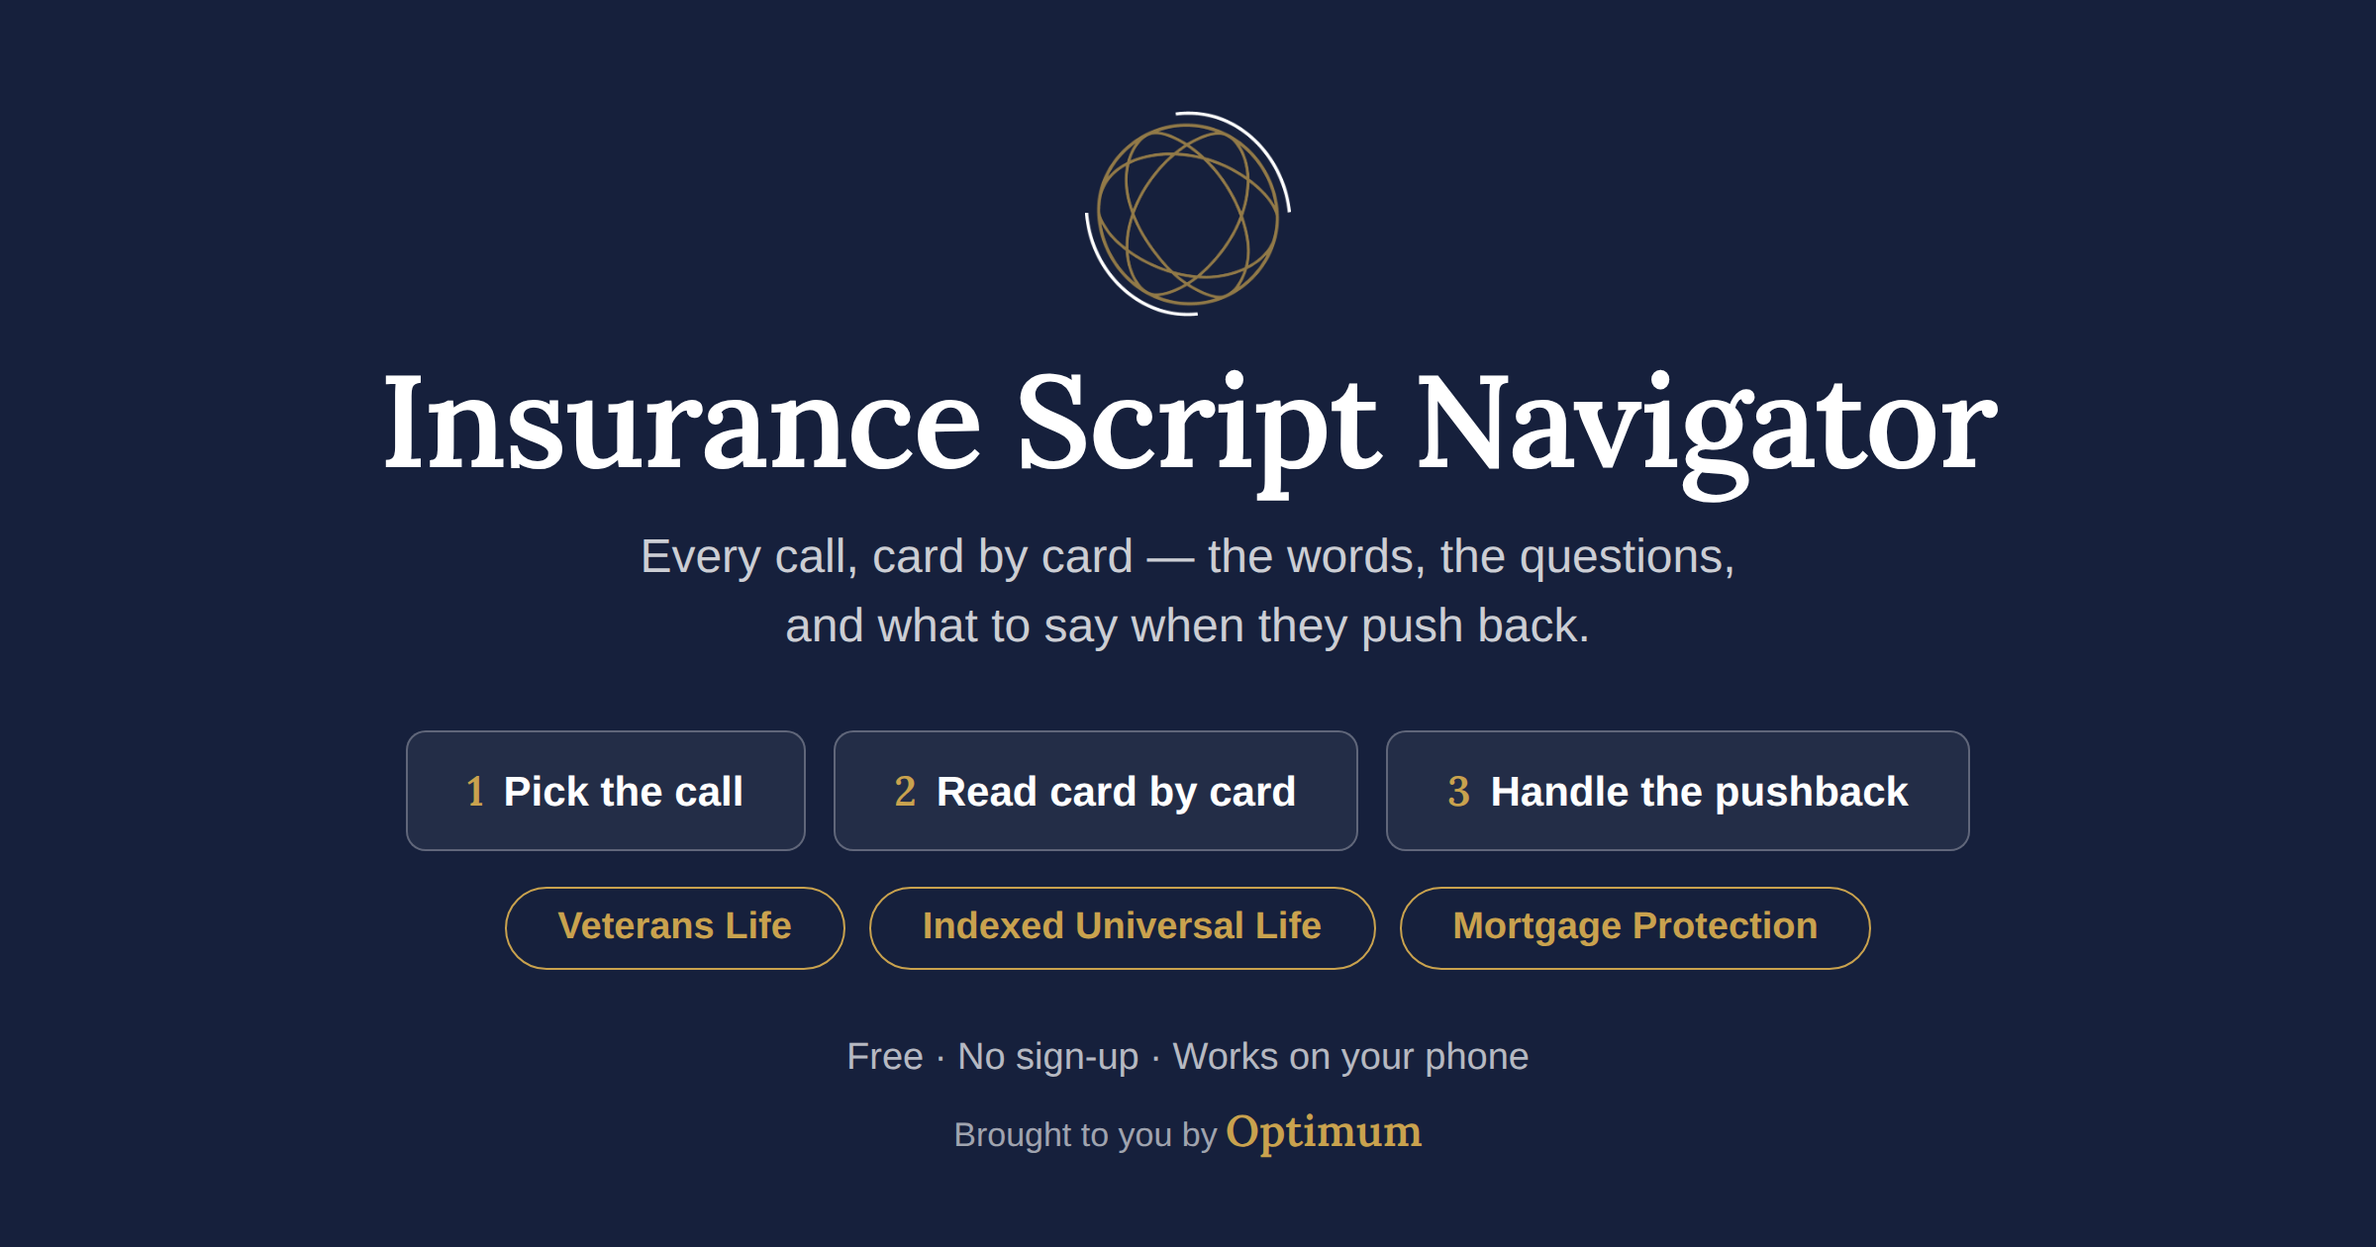
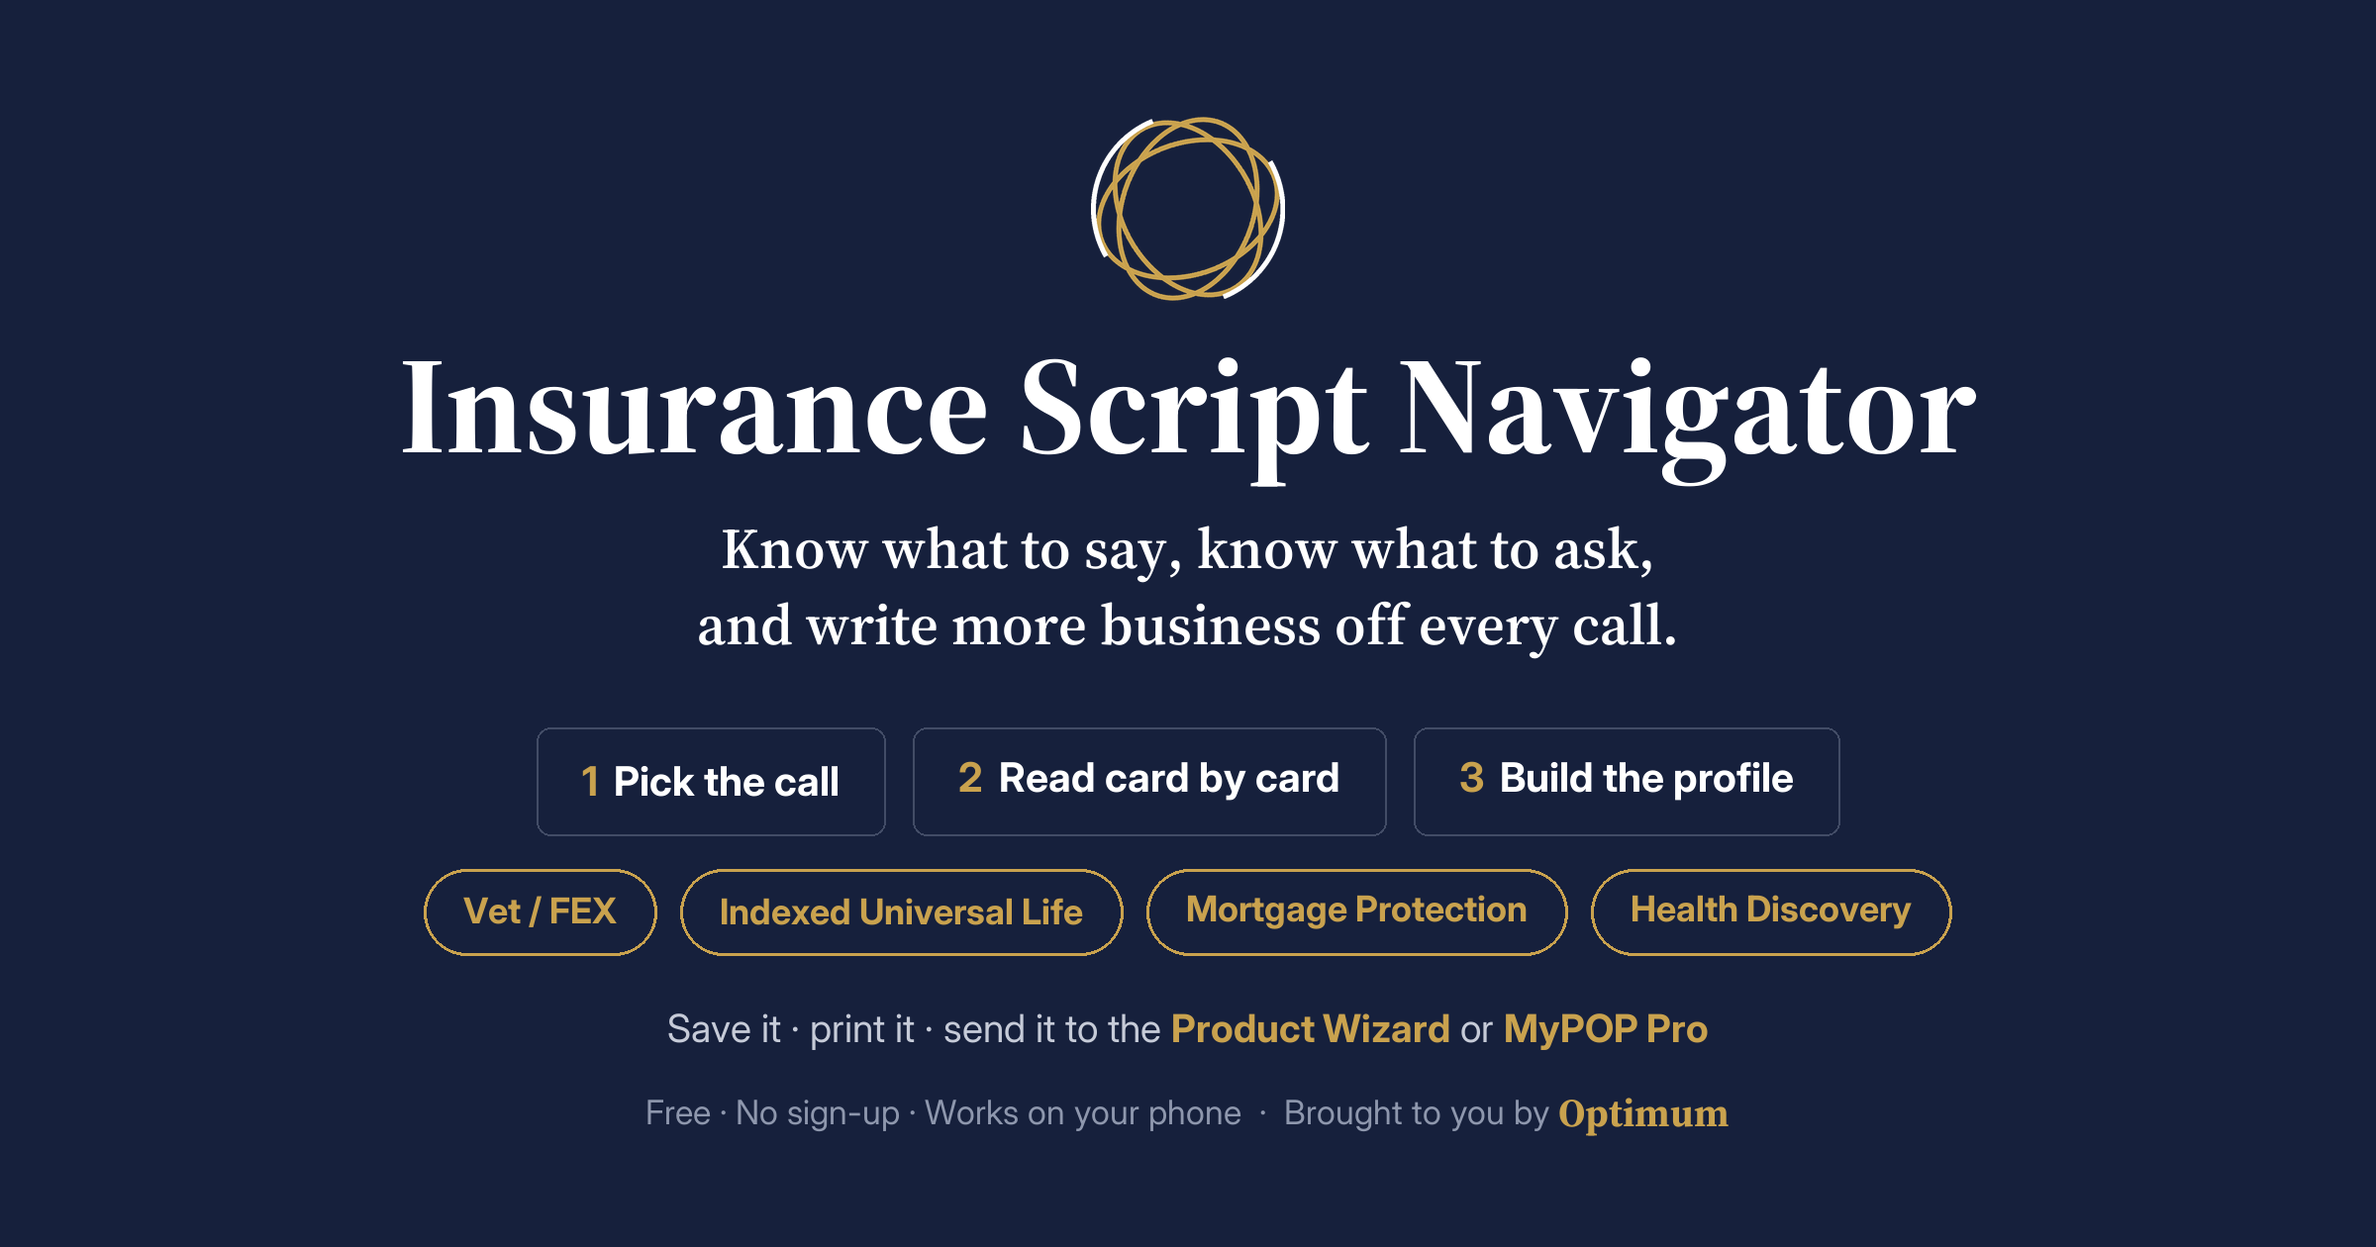
New share card, a landing page that says what the tool does, and a profile that saves itself
SHARE CARD. The old one listed three scripts, called the first one "Veterans Life" when
it runs FEX too, and did not mention health at all. Redrawn at 2400x1260 with four pills -
Vet / FEX, Indexed Universal Life, Mortgage Protection, Health Discovery - and step three
is now "Build the profile" rather than "Handle the pushback", which was never true of the
health discovery call. New line: "Know what to say, know what to ask, and write more
business off every call", and a gold line naming where the profile goes. All four meta
descriptions still claimed veteran/IUL/mortgage only; og:image:alt still said "handle the
pushback". Cache-buster bumped so the scrapers refetch.

LANDING PAGE. The promise now sits above "Choose your script" instead of the page opening
on a menu. Each script card ends with where it sends you - "Builds a client profile ->
Product Wizard", "Builds a private health profile -> MyPOP Pro" - on its own line under a
rule, so the descriptions stay three lines and the destination is scannable across all four.
The line under the cards described the interface; it now leads with the thing nobody knew
was there: every script builds a client profile while you talk.

AUTO-SAVE ON HANDOFF. Pushing to MyPOP Pro or sending to the Product Wizard writes a
snapshot of the profile first. A handoff is when the profile is worth most and when it is
most likely to be lost - another tab, a closed window, or Start over for the next call.
[…]

diff --git a/index.html b/index.html
@@ -4,7 +4,7 @@
 <meta charset="utf-8">
 <meta name="viewport" content="width=device-width, initial-scale=1">
 <title>Insurance Script Navigator — Optimum</title>
-<meta name="description" content="Card-by-card call scripts for insurance agents. Veteran life, indexed universal life, and mortgage protection — with objection handling, reference panels, and printable versions. Free from Optimum.">
+<meta name="description" content="Know what to say, know what to ask, and write more business off every call. Card-by-card scripts for vet/FEX, IUL, mortgage protection and health discovery — each one builds a client profile you can save, print, or send to the Product Wizard or MyPOP Pro. Free from Optimum.">
 <meta name="theme-color" content="#16203C">
 <meta name="author" content="Optimum">
 <link rel="canonical" href="https://script.ffloptimum.com/">
@@ -15,15 +15,15 @@
 <meta property="og:site_name" content="Optimum">
 <meta property="og:url" content="https://script.ffloptimum.com/">
 <meta property="og:title" content="Insurance Script Navigator">
-<meta property="og:description" content="Card-by-card call scripts for insurance agents. Veteran life, IUL, and mortgage protection — free from Optimum.">
-<meta property="og:image" content="https://script.ffloptimum.com/og.png?v=2">
+<meta property="og:description" content="Know what to say, know what to ask, and write more business off every call. Vet/FEX, IUL, mortgage protection and health discovery — free from Optimum.">
+<meta property="og:image" content="https://script.ffloptimum.com/og.png?v=3">
 <meta property="og:image:width" content="2400">
 <meta property="og:image:height" content="1260">
-<meta property="og:image:alt" content="Insurance Script Navigator — pick the call, read card by card, handle the pushback. Veterans Life, Indexed Universal Life, Mortgage Protection. Free from Optimum.">
+<meta property="og:image:alt" content="Insurance Script Navigator — pick the call, read card by card, build the profile. Vet/FEX, Indexed Universal Life, Mortgage Protection, Health Discovery. Save it, print it, send it to the Product Wizard or MyPOP Pro. Free from Optimum.">
 <meta name="twitter:card" content="summary_large_image">
-<meta name="twitter:image" content="https://script.ffloptimum.com/og.png?v=2">
+<meta name="twitter:image" content="https://script.ffloptimum.com/og.png?v=3">
 <meta name="twitter:title" content="Insurance Script Navigator">
-<meta name="twitter:description" content="Card-by-card call scripts for insurance agents. Free from Optimum.">
+<meta name="twitter:description" content="Know what to say, know what to ask, and write more business off every call. Free from Optimum.">
 <link href="https://fonts.googleapis.com/css2?family=Source+Serif+4:ital,opsz,wght@0,8..60,400;0,8..60,600;0,8..60,700;1,8..60,400&family=Inter:wght@400;500;600;700&display=swap" rel="stylesheet">
 <style>
 :root{
@@ -82,6 +82,12 @@ body.embed .scrim{position:absolute}
 @media(min-width:701px){.gshort{display:none}}
 .lbody{flex:1;padding:34px 20px 40px}
 .lwrap{max-width:820px;margin:0 auto}
+.ltail{display:block;margin-top:10px;padding-top:9px;border-top:1px solid var(--goldline);
+  font-family:var(--sans);font-size:11.5px;color:var(--muted);letter-spacing:.01em}
+.ltail b{color:var(--golddk);font-weight:700}
+.lpromise{font-family:var(--serif);font-weight:600;font-size:26px;line-height:1.35;
+  color:var(--navy);margin:0 0 14px;letter-spacing:-.005em}
+@media(max-width:640px){.lpromise{font-size:20px}.wideonly{display:none}}
 .ltitle{font-family:var(--serif);font-size:30px;font-weight:700;letter-spacing:-.02em;margin-bottom:6px}
 .lsub{font-family:var(--serif);font-style:italic;font-size:15.5px;color:var(--muted);margin-bottom:26px}
 .lgrid{display:grid;grid-template-columns:repeat(auto-fit,minmax(330px,1fr));gap:13px}
@@ -710,10 +716,11 @@ footer{background:var(--navy);padding:10px 20px;display:flex;gap:8px;align-items
   <div class="recstrip">Free for every agent, period.<button type="button" class="recopen" aria-haspopup="dialog">Not a Family First Life agent?</button></div>
   <div class="lbody">
     <div class="lwrap">
+      <div class="lpromise">Know what to say, know what to ask,<br class="wideonly"> and write more business off every call.</div>
       <div class="ltitle">Choose your script</div>
       <div class="lsub">Pick the call you're about to run.</div>
       <div class="lgrid" id="lgrid"></div>
-      <div class="lfoot">Each script opens as a card-by-card navigator with its own reference panels. You can jump back here any time from the top of the screen.</div>
+      <div class="lfoot"><b>Every script builds a client profile while you talk</b> &mdash; save it, reload it before the next call, print it for the file, or send it straight to the Product Wizard or MyPOP Pro. Each script opens as a card-by-card navigator with its own reference panels, and you can jump back here any time from the top of the screen.</div>
       <div class="promo">
         <div class="peyebrow">Free for agents</div>
         <h3>Everything you need to look like a professional</h3>
@@ -954,13 +961,13 @@ var OPTIMUM_URL = "https://www.ffloptimum.com/";
 
 var SCRIPTS=[
  {k:"veteran", ready:true,  title:"Veterans / FEX Life Script",
-  desc:"Outbound to veteran and final expense life leads. Fresh and aged openers, full discovery, three-tier quote, application and wrap."},
+  desc:"Outbound to veteran and final expense leads. Fresh and aged openers, objection handling through banking and closing, three-tier quote and application.", tail:"Builds a client profile &rarr; <b>Product Wizard</b>"},
  {k:"iul",     ready:true,  title:"Indexed Universal Life",
-  desc:"Warm or scheduled IUL calls. Goal discovery, eligibility, then a fork into IUL, a Zoom for larger cases, or a whole life pivot."},
+  desc:"Warm or scheduled IUL calls. Goal discovery, eligibility, then a fork into IUL, a Zoom for larger cases, or a whole life pivot.", tail:"Builds a client profile &rarr; <b>Product Wizard</b>"},
  {k:"mortgage",ready:true,  title:"Mortgage Protection",
-  desc:"Homeowner leads. Reframes payoff into protecting equity and buying time, then forks into IUL, whole life, or term."},
+  desc:"Homeowner leads. Reframes payoff into protecting equity and buying time, then forks into IUL, whole life or term.", tail:"Builds a client profile &rarr; <b>Product Wizard</b>"},
  {k:"health",   ready:true,  title:"Health — Discovery Call",
-  desc:"Private health discovery. Appointment or warm call, the qualifying open, household and health, the subsidy cliff, then book the presentation."}
+  desc:"Private health discovery. Appointment or warm call, household and health for both spouses, the subsidy cliff, then book the presentation.", tail:"Builds a private health profile &rarr; <b>MyPOP&nbsp;Pro</b>"}
 ];
 
 var LIB={
@@ -5781,12 +5788,14 @@ function popStateFile(){
       pincome:n(h.incomeThis), sincome:n(h.incomeSpouse), income:n(h.incomeHousehold),
       retage:h.retireAge||"", savings:n(h.liquid), invest:n(h.invest),
       invprot:h.invprot===true, invnote:h.invnote||"",
-      budget:n(h.budgetComfort), whyShop:h.whyShop||"",
+      budget:n(h.budgetMax)||n(h.budgetComfort), whyShop:h.whyShop||"",
       effDate:h.effDate||"", surg2yrP:h.surgery===true,
       conds:(c.conds||[]).map(function(x){ return {name:x.name, yr:x.yr||"", mo:x.mo||""}; }),
       medSkip:(c.medSkip||[]).slice(),
       medList:(c.meds||[]).map(function(m){
-        return {name:m, cost:0, aca:0, disc:0, forP:true, forS:false}; }),
+        return {name:m, cost:0, aca:0, disc:0, forP:true, forS:false}; })
+        .concat((c.spMeds||[]).map(function(m){
+        return {name:m, cost:0, aca:0, disc:0, forP:false, forS:true}; })),
       docs1:((h.doctors||[])[0]||{}).name||"",
       docs2:((h.doctors||[])[1]||{}).name||"",
       docs3:((h.doctors||[])[2]||{}).name||"",
@@ -5821,6 +5830,53 @@ function condLines(){
   if(["Married","Partnered"].indexOf(String(P.married||""))>-1) out.spouse=who(true);
   return out;
 }
+/* POP Pro -> this profile. The mirror of popClient(). Only the client travels back;
+   products, pricing and the quote stay in POP Pro where they belong. */
+function fromPopPro(o){
+  var c=o.client||{}, I=o.intake||{}, out={};
+  var put=function(k,v){ if(v!==undefined && v!==null && v!=="" && v!==0) out[k]=String(v); };
+  var split=function(full){
+    var t=String(full||"").trim(); if(!t) return ["",""];
+    var i=t.lastIndexOf(" "); return i<0?[t,""]:[t.slice(0,i),t.slice(i+1)];
+  };
+  var n=split(c.pname); put("first",n[0]); put("last",n[1]);
+  var sn=split(c.sname); put("sp_name",sn[0]); put("sp_last",sn[1]);
+  put("dob", c.dob||c.date); put("age", c.age||c.page);
+  put("sp_dob", c.sdob); put("sp_age", c.sage);
+  put("state", c.state); put("zip", c.zip); put("address", c.address);
+  put("phone", I.phone); put("email", I.email);
+  var ft=function(v){ var x=parseInt(v,10); return (x>=48&&x<=84) ? Math.floor(x/12)+"'"+(x%12)+'"' : ""; };
+  put("height", ft(I.pheight)); put("weight", I.pweight);
+  put("sp_height", ft(I.sheight)); put("sp_weight", I.sweight);
+  put("sex", I.psex==="M"?"Male":I.psex==="F"?"Female":"");
+  put("sp_sex", I.ssex==="M"?"Male":I.ssex==="F"?"Female":"");
+  put("tobacco", I.tobaccoP?"Yes":""); put("sp_tobacco", I.tobaccoS?"Yes":"");
+  var w=I.who||{};
+  if(w.spouse || c.sname) out.married = out.married || "Married";
+  put("income_this", I.pincome); put("sp_income", I.sincome); put("hh_income", I.income);
+  put("i_retire", I.retage); put("i_liquid", I.savings); put("asset_amt", I.invest);
+  put("asset_prot", I.invsra?"Yes":""); put("asset_notes", I.invnote);
+  put("budget_max", I.budget);
+  put("cur_carrier", I.carrier); put("cur_plan", I.plan);
+  put("fh_cancer", I.famcancerP?"Yes":""); put("sp_fh_cancer", I.famcancerS?"Yes":"");
+  put("fh_heart", I.famheartP?"Yes":"");  put("sp_fh_heart", I.famheartS?"Yes":"");
+  put("mh_needs", I.mentalP?"Yes":"");    put("sp_mh_needs", I.mentalS?"Yes":"");
+  put("mat_needs", I.maternityP?"Yes":"");put("sp_mat_needs", I.maternityS?"Yes":"");
+  put("recent_stay", I.surg2yrP?"Yes":"");put("sp_recent_stay", I.surg2yrS?"Yes":"");
+  put("notes", I.notes); put("why_note", I.whyShop); put("start_when", I.effDate);
+  put("kids_health", I.kidsNote);
+  /* medications come back to the person they were ticked against */
+  var ml=(I.medList||[]).filter(function(m){ return m && m.name; });
+  var mine=ml.filter(function(m){ return m.forS!==true; }).map(function(m){ return m.name; });
+  var theirs=ml.filter(function(m){ return m.forS===true; }).map(function(m){ return m.name; });
+  if(mine.length){ out.meds_list=mine; out.meds=mine.join(", "); }
+  if(theirs.length) out.sp_meds_list=theirs;
+  var cs=(I.conds||[]).map(function(x){ return x && x.name; }).filter(Boolean);
+  if(cs.length) out.conds=cs;
+  var docs=[I.docs1,I.docs2,I.docs3].filter(Boolean);
+  if(docs.length){ out.keep_docs="Yes"; out.docs=docs.map(function(d){ return {n:d}; }); }
+  return out;
+}
 function popAgent(){
   var g=function(k){ return String(pVal(k)||"").trim(); };
   return { name:g("a_name"), agency:g("a_agency"), npn:g("a_npn"),
@@ -5845,11 +5901,13 @@ function popSay(msg){ var el=document.getElementById("popnote"); if(el) el.inner
 
 function popOpen(){
   var b=document.getElementById("poppro");
+  var saved=pAutoSave("poppro");
   POP_DONE=false;
   POP_WIN=window.open(POP_URL,"myPopPro");
   if(!POP_WIN){ popSay('<b>Allow pop-ups</b> for this site, then try again.'); return; }
   try{ POP_WIN.focus(); }catch(e){}
   if(b) b.classList.add("busy");
+  if(saved) popSay('Saved a copy first &mdash; <b>'+esc(saved)+'</b> is in your downloads.');
   var n=0;
   clearInterval(POP_TRY);
   POP_TRY=setInterval(function(){
@@ -5878,7 +5936,19 @@ window.addEventListener("message",function(e){
 });
 
 var SCRIPT_CODE={veteran:"VET",mortgage:"MP",iul:"IUL",health:"HEALTH"};
-function pSaveFile(){
+/* A handoff is the moment the profile is worth most and the moment it is most likely to be
+   lost - the agent opens another tab, closes this one, or hits Start over for the next call
+   and the whole thing is gone. So pushing anywhere takes a snapshot first, once per set of
+   changes, rather than asking the agent to remember. */
+var AUTOSAVED="";
+function pAutoSave(reason){
+  if(!P.first && !P.last) return "";            /* nothing worth saving yet */
+  var sig=JSON.stringify(P);
+  if(sig===AUTOSAVED) return "";                 /* already saved this exact state */
+  AUTOSAVED=sig;
+  return pSaveFile(true) || "";
+}
+function pSaveFile(quiet){
   var d=new Date(), pad=function(n){return (n<10?"0":"")+n};
   var stamp=pad(d.getMonth()+1)+"."+pad(d.getDate())+"."+d.getFullYear();
   var who=((P.first||"")+" "+(P.last||"")).replace(/\s+/g," ").trim() || "Client";
@@ -5889,16 +5959,23 @@ function pSaveFile(){
   a.download=name+".json"; a.style.display="none";
   document.body.appendChild(a); a.click();
   setTimeout(function(){URL.revokeObjectURL(a.href);document.body.removeChild(a)},600);
+  if(!quiet) pFlash();
+  return a.download;
 }
 
 $("proffile").onchange=function(){
   var f=this.files&&this.files[0]; if(!f)return;
   var r=new FileReader();
-  r.onload=function(){ try{ P=JSON.parse(r.result)||{};
-                       if(P.married==="Yes") P.married="Married";
-                       else if(P.married==="No") P.married="Single";
-                       pStore(); pOpen(); if(typeof render==="function") render(); }
-                       catch(e){ alert("That file could not be read as a profile."); } };
+  r.onload=function(){ try{
+      var o=JSON.parse(r.result)||{};
+      /* A POP Pro quote is a different shape entirely - its own state, not this profile.
+         Rather than tell the agent it is the wrong file, read what is in it and carry it
+         back across. Its own fields stay in the file; this only takes the client. */
+      P = (o && o.intake && (o.packages||o.aca||o.client)) ? fromPopPro(o) : o;
+      if(P.married==="Yes") P.married="Married";
+      else if(P.married==="No") P.married="Single";
+      pStore(); pOpen(); if(typeof render==="function") render(); }
+      catch(e){ alert("That file could not be read as a profile."); } };
   r.readAsText(f); this.value="";
 };
 
@@ -6434,6 +6511,7 @@ function wizCardHTML(){
 var WIZ_WIN=null, WIZ_TRY=null, WIZ_DONE=false;
 function wizOpen(){
   var b=document.getElementById("wizbtn");
+  pAutoSave("wizard");
   WIZ_DONE=false;
   WIZ_WIN=window.open(WIZ_URL,"optimumWizard");
   if(!WIZ_WIN){ if(b){b.classList.add("bad"); b.innerHTML='Allow pop-ups to open the Wizard';} return; }
@@ -6530,7 +6608,7 @@ function buildLauncher(){
     return '<button type="button" class="lcard '+(x.ready?"ready":"soon")+'" data-script="'+x.k+'"'+
       (x.ready?'':' disabled')+'>'+
       '<span class="lbadge '+(x.ready?"on":"off")+'">'+(x.ready?"Ready":"In development")+'</span>'+
-      '<h2>'+x.title+'</h2><p>'+x.desc+'</p></button>';
+      '<h2>'+x.title+'</h2><p>'+x.desc+'</p>'+(x.tail?'<span class="ltail">'+x.tail+'</span>':'')+'</button>';
   }).join("") +
   '<a class="lcard vid" href="https://youtube.com/shorts/0rxtYeJYehM" target="_blank" rel="noopener noreferrer">'+
     '<span class="vplay" aria-hidden="true"><svg viewBox="0 0 24 24" width="17" height="17">'+
